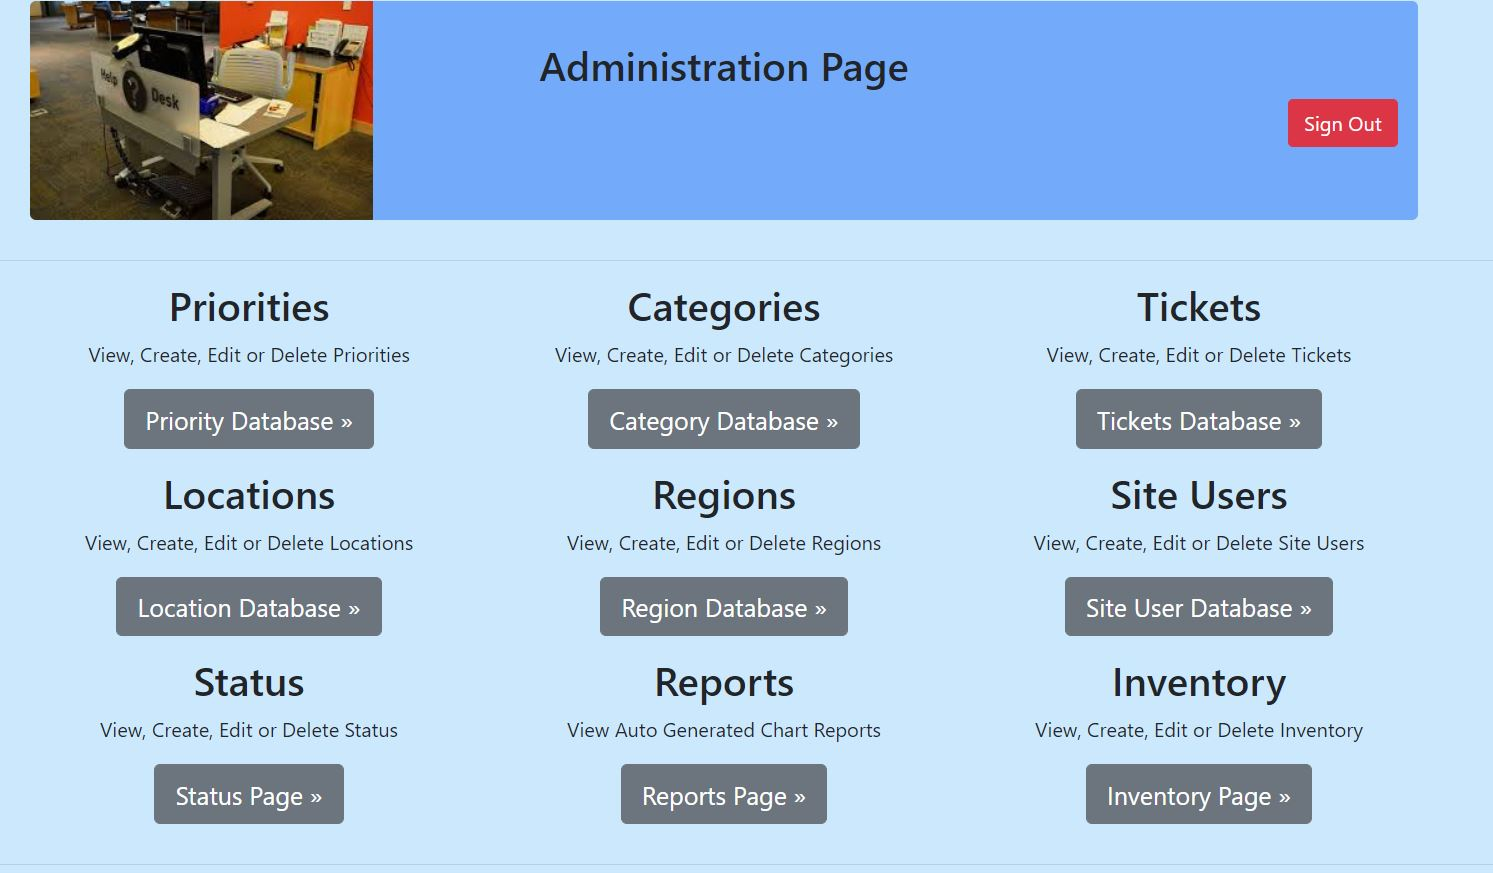
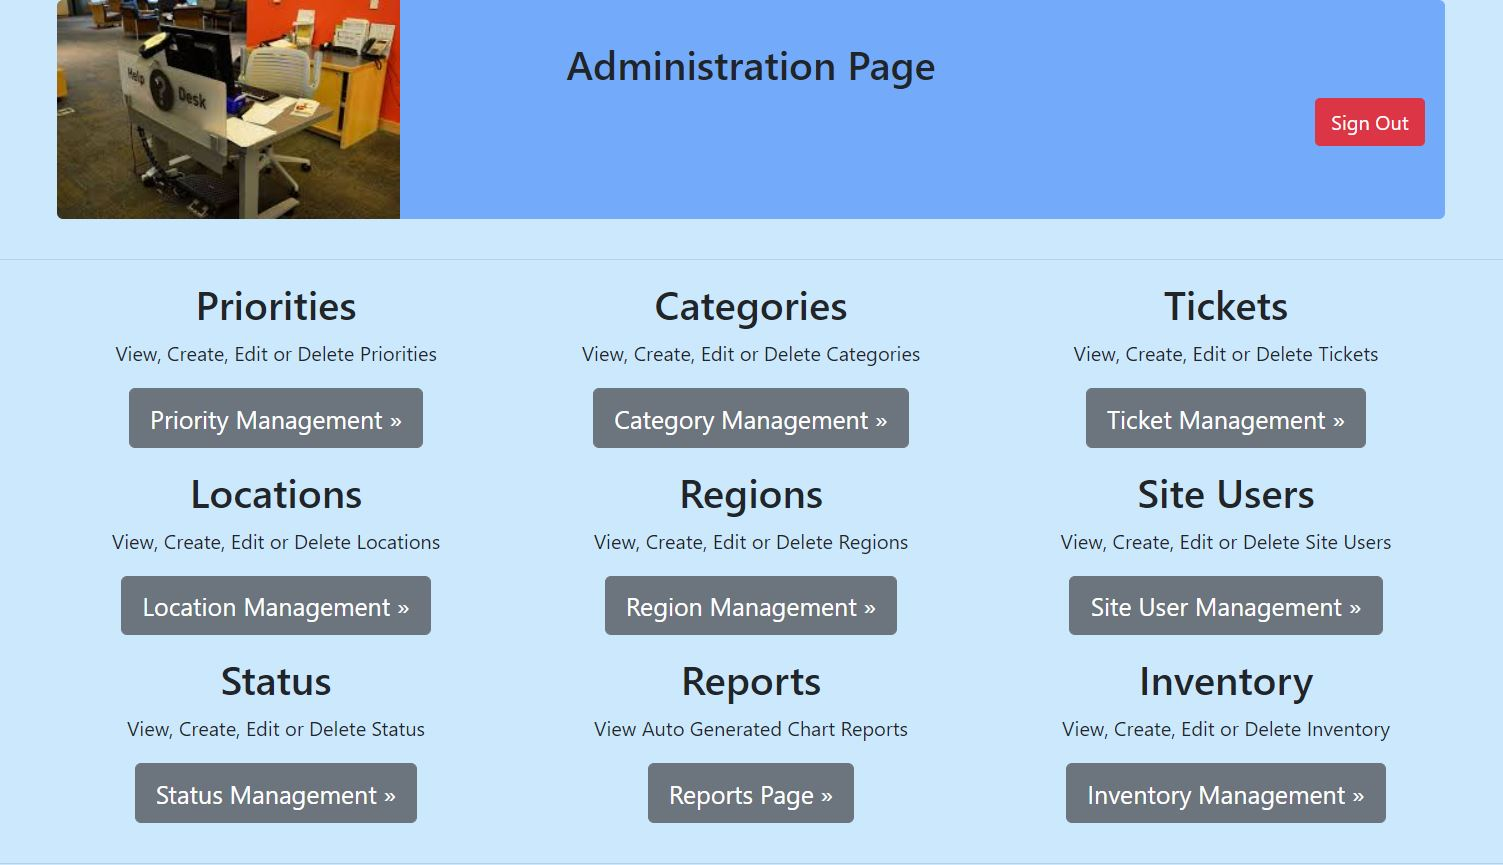
Minor updates

diff --git a/app/views/Administration/admin.scala.html b/app/views/Administration/admin.scala.html
@@ -35,7 +35,7 @@
                 View, Create, Edit or Delete Priorities
             </p>
 
-            <p><a class="btn btn-secondary btn-lg" href="priorities">Priority Database &raquo;</a></p>
+            <p><a class="btn btn-secondary btn-lg" href="priorities">Priority Management &raquo;</a></p>
 
         </div>
 
@@ -45,7 +45,7 @@
                 View, Create, Edit or Delete Categories
             </p>
 
-            <a class="btn btn-secondary btn-lg" href="categories">Category Database &raquo;</a>
+            <a class="btn btn-secondary btn-lg" href="categories">Category Management &raquo;</a>
 
         </div>
 
@@ -55,7 +55,7 @@
                 View, Create, Edit or Delete Tickets
             </p>
             <p>
-                <a class="btn btn-secondary btn-lg" href="tickets">Tickets Database &raquo;</a>
+                <a class="btn btn-secondary btn-lg" href="tickets">Ticket Management &raquo;</a>
             </p>
         </div>
     </div>
@@ -67,7 +67,7 @@
                 View, Create, Edit or Delete Locations
             </p>
             <p>
-                <a class="btn btn-secondary btn-lg" href="locations">Location Database &raquo;</a>
+                <a class="btn btn-secondary btn-lg" href="locations">Location Management &raquo;</a>
             </p>
         </div>
 
@@ -77,7 +77,7 @@
                 View, Create, Edit or Delete Regions
             </p>
             <p>
-                <a class="btn btn-secondary btn-lg" href="regions">Region Database &raquo;</a>
+                <a class="btn btn-secondary btn-lg" href="regions">Region Management &raquo;</a>
             </p>
         </div>
 
@@ -88,7 +88,7 @@
                 View, Create, Edit or Delete Site Users
             </p>
             <p>
-                <a class="btn btn-secondary btn-lg" href="siteadmins">Site User Database &raquo;</a>
+                <a class="btn btn-secondary btn-lg" href="siteadmins">Site User Management &raquo;</a>
             </p>
         </div>
     </div>
@@ -101,7 +101,7 @@
                 View, Create, Edit or Delete Status
             </p>
             <p>
-                <a class="btn btn-secondary btn-lg" href="ticketStatuses">Status Page &raquo;</a>
+                <a class="btn btn-secondary btn-lg" href="ticketStatuses">Status Management &raquo;</a>
             </p>
         </div>
         <div class="col-md-4">
@@ -120,7 +120,7 @@
             </p>
 
             <p>
-                <a class="btn btn-secondary btn-lg" href="inventories">Inventory Page &raquo;</a>
+                <a class="btn btn-secondary btn-lg" href="inventories">Inventory Management &raquo;</a>
             </p>
         </div>
     </div>
